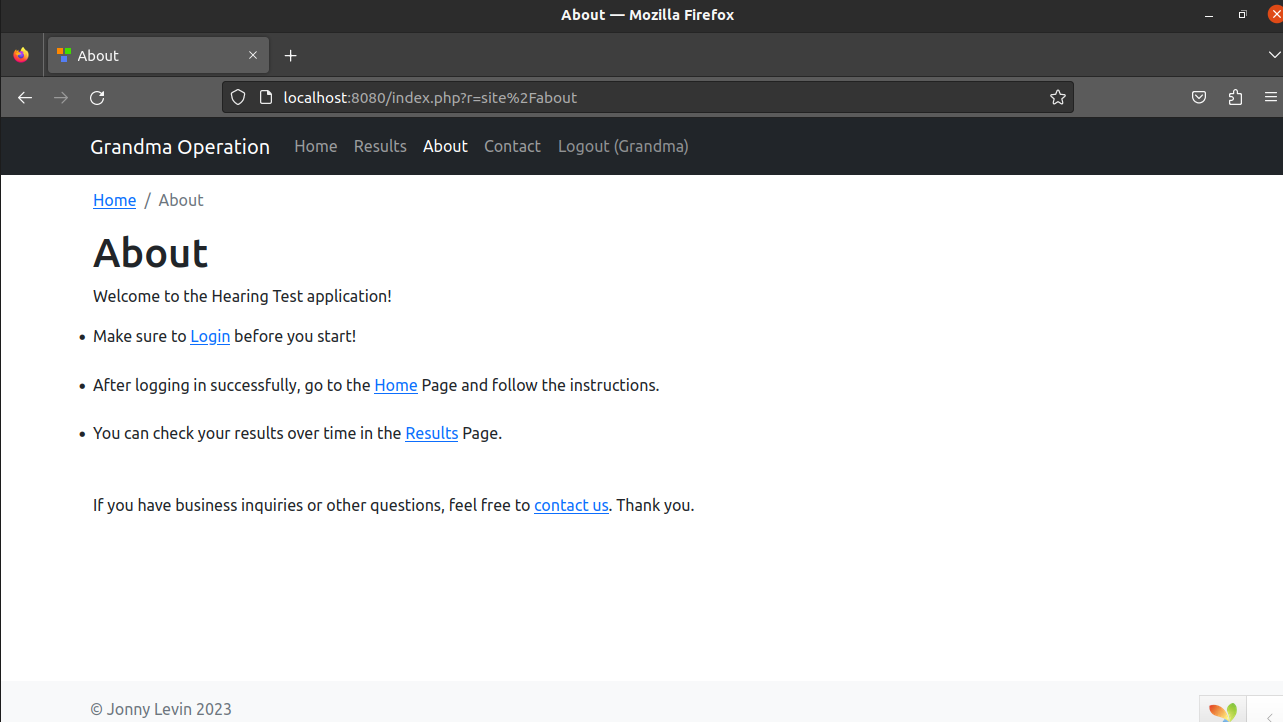
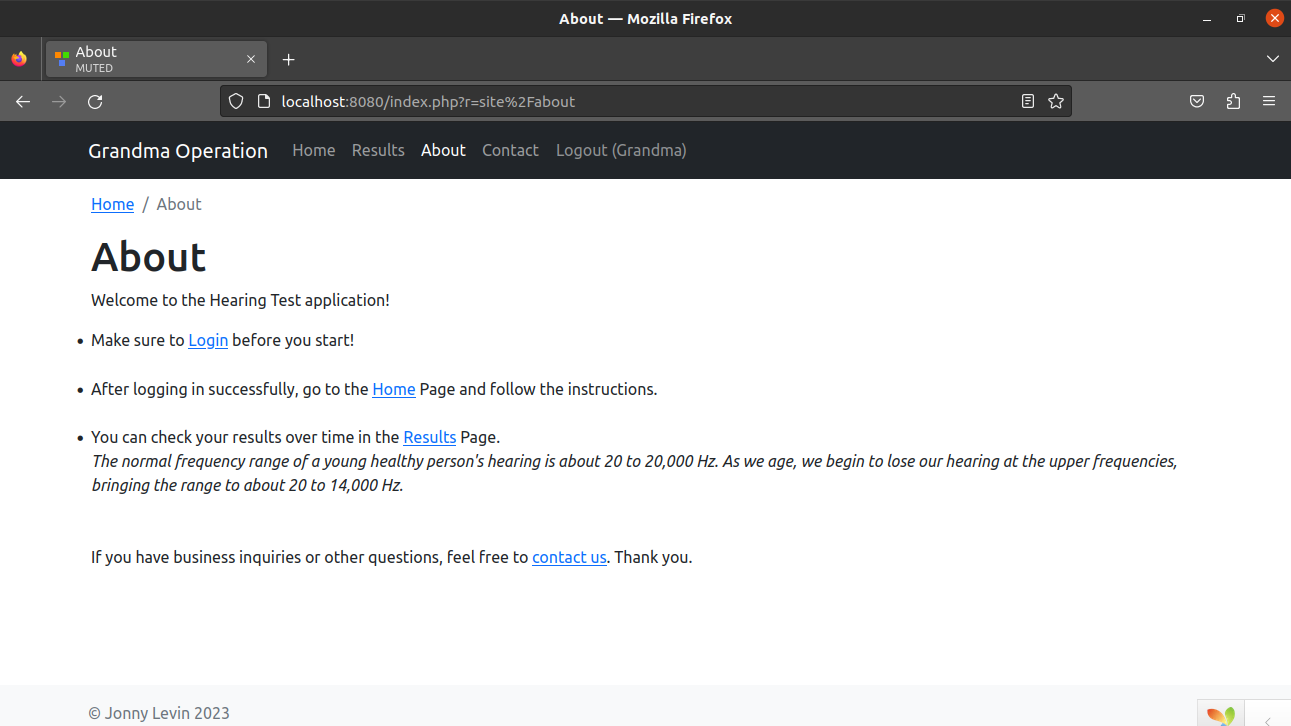
version 1.2

diff --git a/soundGym/basic/views/site/about.php b/soundGym/basic/views/site/about.php
@@ -18,6 +18,8 @@ $this->params['breadcrumbs'][] = $this->title;
         <li>After logging in successfully, go to the <a href="http://localhost:8080/index.php?r=site%2Findex">Home</a> Page and follow the instructions.</li>
         <br>
         <li>You can check your results over time in the <a href="http://localhost:8080/index.php?r=site%2Fresults">Results</a> Page.</li>
+        <em>The normal frequency range of a young healthy person's hearing is about 20 to 20,000 Hz. As we age, we begin to lose our hearing at the upper frequencies, bringing the range to about 20 to 14,000 Hz.</em>
+        <br>
         <br>
         <br>
         If you have business inquiries or other questions, feel free to <a href="http://localhost:8080/index.php?r=site%2Fcontact">contact us</a>. Thank you. 

diff --git a/soundGym/basic/README.md b/soundGym/basic/README.md
@@ -46,7 +46,7 @@ INSTALLATION
 After extracting the zip file of the project, make sure to run the following commands in the terminal:
 
 
-### <span style="color: red">**! Follow carefully and make sure you don't miss anything ! </span>**
+### <span style="color: red">**⚠ ! Follow carefully and make sure you don't miss anything ! ⚠ </span>**
 ```bash
 sudo apt update
 ```
